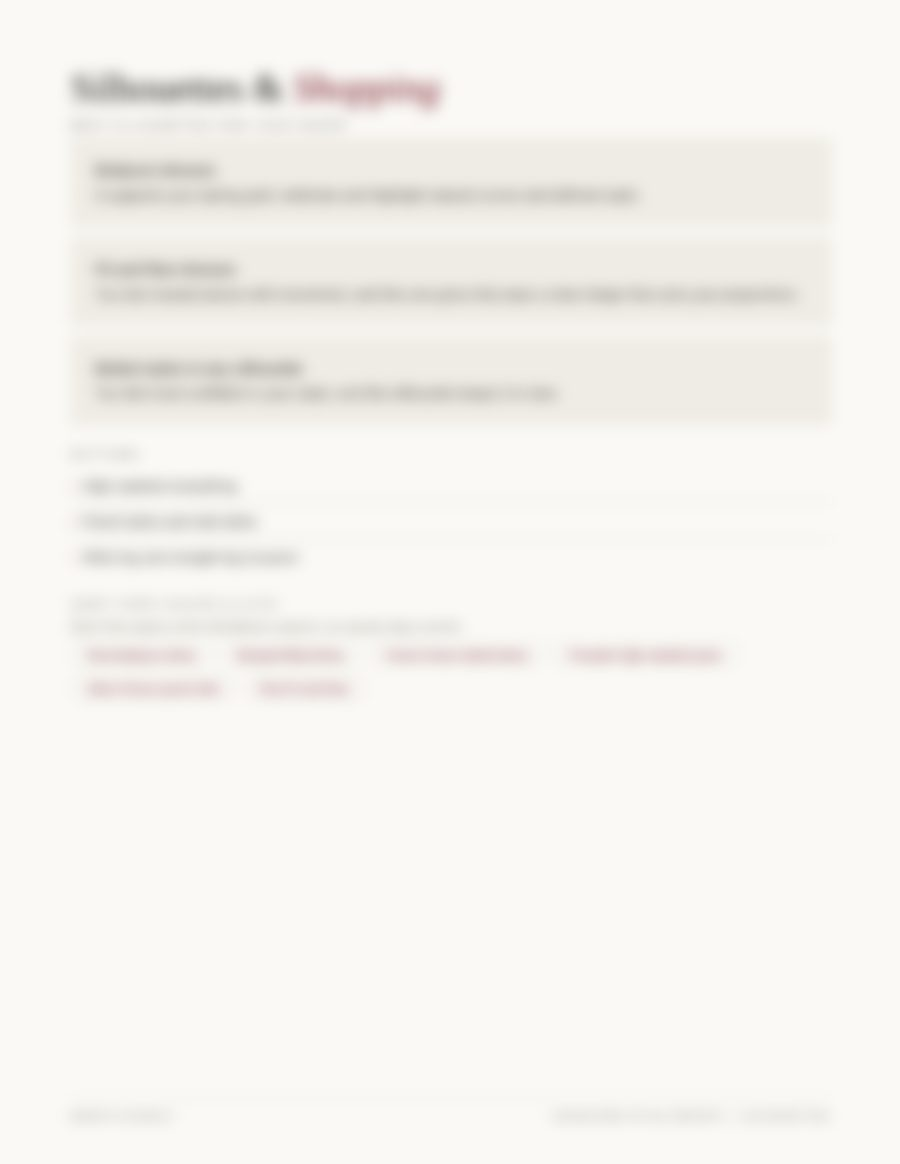
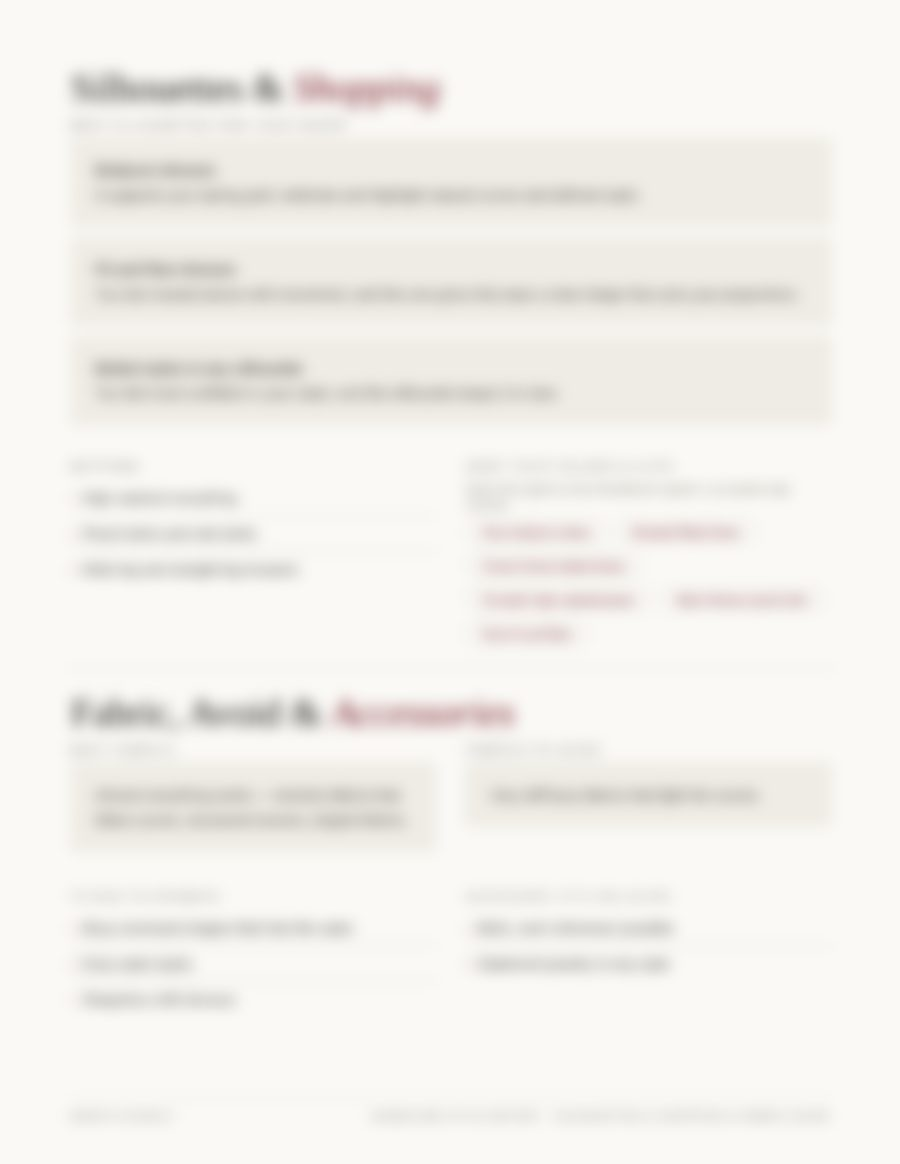
Signature report: pack sections onto 6 tight pages (measured, in order); refresh sneak peek images
Claude-Session: https://claude.ai/code/session_01FUdN8BrrqRcBgv91ujUewX

diff --git a/analysis-results.html b/analysis-results.html
@@ -46,6 +46,7 @@ body{background:var(--surface);color:var(--ink);font-family:var(--font-body);pad
 .pdf-h1 em{color:#7A1321;font-style:italic;}
 .pdf-section-label{font-size:0.62rem;letter-spacing:0.2em;text-transform:uppercase;color:#6B6862;font-weight:500;margin:1.3rem 0 0.5rem;}
 .pdf-box{background:#EFECE6;border:1px solid #DCD8D0;border-radius:2px;padding:1rem 1.3rem;margin-bottom:0.9rem;font-size:0.82rem;line-height:1.7;color:#3F3C38;}
+.pdf-two{display:grid;grid-template-columns:1fr 1fr;gap:0 28px;}.pdf-blk-n{margin-top:20px;padding-top:20px;border-top:1px solid #DCD8D0;}.pdf-pal-head{display:flex;justify-content:space-between;align-items:baseline;margin-bottom:0.9rem;}.pdf-pal-tag{font-size:0.66rem;letter-spacing:0.16em;text-transform:uppercase;color:#7A1321;font-weight:500;}
 .pdf-list{list-style:none;padding:0;margin:0;}
 .pdf-list li{padding:0.35rem 0;font-size:0.82rem;line-height:1.55;color:#3F3C38;border-bottom:1px solid #DCD8D0;}
 .pdf-list li:last-child{border-bottom:none;}
@@ -187,28 +188,57 @@ function nordstromChips(r){
   const sig=r.signature.slice(0,5);
   return '<div class="pdf-chips">'+kws.map((k,i)=>{const q=sig[i%sig.length].n+' '+k;return '<a class="pdf-chip" data-href="https://www.nordstrom.com/sr?keyword='+encodeURIComponent(q)+'" href="https://www.nordstrom.com/sr?keyword='+encodeURIComponent(q)+'" target="_blank" rel="noopener">'+esc(q)+'</a>';}).join('')+'</div>';
 }
+/* ---- Tight layout: sections are measured and packed onto as few pages as fit, so no page is left half empty ---- */
+const PAGE_CAP=915, BLK_GAP=41; /* content height that fits above the footer; px added between stacked sections */
+function makeBlocks(r){
+  const sig=r.signature.slice(0,5),neu=r.neutrals.slice(0,3);
+  const season=String(r.seasonLabel||'');
+  const b={height:r.height,intensity:r.intensity};
+  const img=CROQ_CACHE[croqKey(r.bodyShapeKey,b)]||'';const CL=croqLabelPos(b);
+  const L=[];
+  if(r.personaAnswered&&r.persona){const ps=r.persona;L.push({key:'persona',label:'Style Persona',html:'<p class="pdf-section-label" style="margin-top:0;">Your Style Persona</p><div class="pdf-persona-name">'+esc(ps.name)+'</div><p class="pdf-persona-tag">'+esc(ps.tagline)+'</p><p class="pdf-section-label">Your 3-Piece Signature Formula</p><div class="pdf-formula">'+ps.formula.map((f,i)=>(i?'<span class="pdf-plus">+</span>':'')+'<div class="pdf-fbox"><span class="pdf-fnum">0'+(i+1)+'</span>'+esc(f)+'</div>').join('')+'</div><div class="pdf-rulebox"><p class="pdf-section-label" style="margin-top:0;">The Styling Rule You Can Break</p><p>'+esc(ps.rule)+'</p></div>'});}
+  L.push({key:'palette',label:'Color Palette',html:'<div class="pdf-pal-head"><h1 class="pdf-h1" style="margin:0;">Your <em>Palette</em></h1><span class="pdf-pal-tag">'+esc(season)+'</span></div><p class="pdf-section-label" style="margin-top:0;">Power Neutrals</p>'+arches(neu)+'<p class="pdf-section-label">Signature Colors</p>'+arches(sig)+'<p class="pdf-section-label">Metal Tone</p><div class="pdf-box">'+esc(r.metal)+'</div>'});
+  L.push({key:'colortype',label:'Color Analysis',html:'<div class="pdf-colorband"><p class="pdf-section-label">Color Type</p><h1>You\'re a <em>'+esc(season)+'</em></h1></div>'
+    +'<div class="pdf-box"><p class="pdf-section-label" style="margin-top:0;">Color Type Identified</p><h2 class="pdf-h1" style="font-size:1.25rem;">'+esc(season)+'</h2>'+esc(r.seasonDesc)+'</div>'
+    +'<p class="pdf-section-label">Why This Is You</p><div class="pdf-box">'+esc(r.narrative)+'</div>'});
+  L.push({key:'guidance',label:'Color Guidance',html:'<h1 class="pdf-h1" style="margin-top:0;">Accessories &amp; <em>Avoid</em></h1><p class="pdf-section-label" style="margin-top:0;">Accessory Color Guide</p><div class="pdf-box">'+esc(r.accessory)+'</div><div class="pdf-two"><div><p class="pdf-section-label">Colors to Avoid</p><div class="pdf-box">'+esc(r.colorAvoid)+'</div></div><div><p class="pdf-section-label">Step Back From</p><div class="pdf-box">'+esc(r.avoidText)+'</div></div></div>'});
+  L.push({key:'body',label:'Body Analysis',html:'<p class="pdf-section-label" style="margin-top:0;">Body Shape</p><div class="pdf-bodyrow"><div class="pdf-croq"><img src="'+img+'"/><span class="pdf-croq-lbl" style="top:'+CL.sh.toFixed(1)+'%">Shoulders</span><span class="pdf-croq-lbl" style="top:'+CL.waist.toFixed(1)+'%">Waist</span><span class="pdf-croq-lbl" style="top:'+CL.hip.toFixed(1)+'%">Hips</span></div>'
+    +'<div class="pdf-bodycol"><h1 class="pdf-h1" style="margin:0 0 0.7rem;">'+esc(shapeTitle(r))+'</h1><div class="pdf-box">'+esc(r.bodyShapeDesc)+'</div><p class="pdf-section-label">Why This Is You</p><div class="pdf-box">'+esc(r.bodyNarrative)+'</div><p class="pdf-section-label">Styling Goal</p><div class="pdf-box" style="font-style:italic;">'+esc(r.bodyGoal)+'</div></div></div>'
+    +'<p class="pdf-section-label">Tops &amp; Necklines</p>'+pdfList((r.bodyGuide.tops||[]).slice(0,4))});
+  L.push({key:'silh',label:'Silhouettes & Shopping',html:'<h1 class="pdf-h1" style="margin-top:0;">Silhouettes &amp; <em>Shopping</em></h1><p class="pdf-section-label" style="margin-top:0;">Best Silhouettes For Your Shape</p>'+(r.silhouettes||[]).map(s=>'<div class="pdf-box" style="margin-bottom:0.7rem;"><strong>'+esc(s.text)+'</strong><br>'+esc(s.reason)+'</div>').join('')
+    +'<div class="pdf-two"><div><p class="pdf-section-label">Bottoms</p>'+pdfList((r.bodyGuide.bots||[]).slice(0,4))+'</div><div><p class="pdf-section-label">Shop Your Colors &amp; Cuts</p><p style="font-size:0.74rem;color:#8A8378;margin:0 0 0.4rem;">Each link opens a live Nordstrom search, so results stay current.</p>'+nordstromChips(r)+'</div></div>'});
+  L.push({key:'fab',label:'Fabric Guide',html:'<h1 class="pdf-h1" style="margin-top:0;">Fabric, Avoid &amp; <em>Accessories</em></h1><div class="pdf-two"><div><p class="pdf-section-label" style="margin-top:0;">Best Fabrics</p><div class="pdf-box">'+esc(r.bodyGuide.fabGood)+'</div></div><div><p class="pdf-section-label" style="margin-top:0;">Fabrics To Avoid</p><div class="pdf-box">'+esc(r.bodyGuide.fabAvoid)+'</div></div></div>'
+    +'<div class="pdf-two"><div><p class="pdf-section-label">Things To Minimize</p>'+pdfList(r.bodyGuide.avd)+'</div><div><p class="pdf-section-label">Accessory Styling Guide</p>'+pdfList(r.bodyGuide.acc)+'</div></div>'});
+  return L;
+}
+let LAYOUT=null;
+async function layoutPages(r){
+  const blocks=makeBlocks(r);
+  const host=document.createElement('div');host.className='pdf-page';host.style.cssText='position:absolute;left:-10000px;top:0;height:auto;overflow:visible;';
+  host.innerHTML=blocks.map(b=>'<div class="pdf-blk">'+b.html+'</div>').join('');document.body.appendChild(host);
+  try{
+    if(document.fonts&&document.fonts.ready)await document.fonts.ready;
+    await Promise.all([...host.querySelectorAll('img')].map(i=>i.decode?i.decode().catch(()=>{}):Promise.resolve()));
+    const kids=[...host.children];blocks.forEach((b,i)=>{b.h=kids[i].offsetHeight;});
+  }finally{host.remove();}
+  /* in-order packing: keep the reading order, start a new page only when the next section no longer fits */
+  const pages=[];let cur=[],used=0;
+  blocks.forEach(b=>{const need=cur.length?b.h+BLK_GAP:b.h;if(cur.length&&used+need>PAGE_CAP){pages.push(cur);cur=[b];used=b.h;}else{cur.push(b);used+=need;}});
+  if(cur.length)pages.push(cur);
+  window.__BLOCK_H=blocks.map(b=>b.key+':'+b.h).join(' ');
+  LAYOUT=pages.map(pg=>pg.map(b=>b.key));
+}
 function buildPages(r){
   const label='Signature Style Report';
   const today=new Date();const date=today.toLocaleDateString('en-US',{year:'numeric',month:'long',day:'numeric'});
   const until=new Date(today.getTime()+45*86400000).toLocaleDateString('en-US',{year:'numeric',month:'long',day:'numeric'});
-  const b={height:r.height,intensity:r.intensity};
-  const img=CROQ_CACHE[croqKey(r.bodyShapeKey,b)]||'';const CL=croqLabelPos(b);
-  const sig=r.signature.slice(0,5),neu=r.neutrals.slice(0,3);
-  const season=String(r.seasonLabel||'');
+  const blocks=makeBlocks(r),byKey={};blocks.forEach(b=>{byKey[b.key]=b;});
   const pages=[];
   pages.push(pdfPage('pdf-cover','<div class="pdf-logo">HerStyleVault</div><div class="pdf-pkg-pill">Signature Style Report</div><div class="pdf-client-name">'+esc(r.clientName)+'</div><div class="pdf-date">Prepared '+esc(date)+'</div>'));
-  if(r.personaAnswered&&r.persona){const ps=r.persona;pages.push(pdfPage('','<p class="pdf-section-label" style="margin-top:0;">Your Style Persona</p><div class="pdf-persona-name">'+esc(ps.name)+'</div><p class="pdf-persona-tag">'+esc(ps.tagline)+'</p><p class="pdf-section-label">Your 3-Piece Signature Formula</p><div class="pdf-formula">'+ps.formula.map((f,i)=>(i?'<span class="pdf-plus">+</span>':'')+'<div class="pdf-fbox"><span class="pdf-fnum">0'+(i+1)+'</span>'+esc(f)+'</div>').join('')+'</div><div class="pdf-rulebox"><p class="pdf-section-label" style="margin-top:0;">The Styling Rule You Can Break</p><p>'+esc(ps.rule)+'</p></div>'+pdfFoot(label+' — Style Persona')));}
-  pages.push(pdfPage('','<div class="pdf-colorband"><p class="pdf-section-label">Color Type</p><h1>You\'re a <em>'+esc(season)+'</em></h1></div>'
-    +'<div class="pdf-box"><p class="pdf-section-label" style="margin-top:0;">Color Type Identified</p><h2 class="pdf-h1" style="font-size:1.25rem;">'+esc(season)+'</h2>'+esc(r.seasonDesc)+'</div>'
-    +'<p class="pdf-section-label">Why This Is You</p><div class="pdf-box">'+esc(r.narrative)+'</div>'+pdfFoot(label+' — Color Analysis')));
-  pages.push(pdfPage('','<h1 class="pdf-h1">Your <em>Palette</em></h1><p class="pdf-section-label" style="margin-top:0;">Power Neutrals</p>'+arches(neu)+'<p class="pdf-section-label">Signature Colors</p>'+arches(sig)+'<p class="pdf-section-label">Metal Tone</p><div class="pdf-box">'+esc(r.metal)+'</div>'+pdfFoot(label+' — Color Palette')));
-  pages.push(pdfPage('','<h1 class="pdf-h1">Accessories &amp; <em>Avoid</em></h1><p class="pdf-section-label" style="margin-top:0;">Accessory Color Guide</p><div class="pdf-box">'+esc(r.accessory)+'</div><p class="pdf-section-label">Colors to Avoid</p><div class="pdf-box">'+esc(r.colorAvoid)+'</div><p class="pdf-section-label">Step Back From</p><div class="pdf-box">'+esc(r.avoidText)+'</div>'+pdfFoot(label+' — Color Guidance')));
-  pages.push(pdfPage('','<p class="pdf-section-label">Body Shape</p><div class="pdf-bodyrow"><div class="pdf-croq"><img src="'+img+'"/><span class="pdf-croq-lbl" style="top:'+CL.sh.toFixed(1)+'%">Shoulders</span><span class="pdf-croq-lbl" style="top:'+CL.waist.toFixed(1)+'%">Waist</span><span class="pdf-croq-lbl" style="top:'+CL.hip.toFixed(1)+'%">Hips</span></div>'
-    +'<div class="pdf-bodycol"><h1 class="pdf-h1" style="margin:0 0 0.7rem;">'+esc(shapeTitle(r))+'</h1><div class="pdf-box">'+esc(r.bodyShapeDesc)+'</div><p class="pdf-section-label">Why This Is You</p><div class="pdf-box">'+esc(r.bodyNarrative)+'</div><p class="pdf-section-label">Styling Goal</p><div class="pdf-box" style="font-style:italic;">'+esc(r.bodyGoal)+'</div></div></div>'
-    +'<p class="pdf-section-label">Tops &amp; Necklines</p>'+pdfList((r.bodyGuide.tops||[]).slice(0,4))+pdfFoot(label+' — Body Analysis')));
-  pages.push(pdfPage('','<h1 class="pdf-h1">Silhouettes &amp; <em>Shopping</em></h1><p class="pdf-section-label" style="margin-top:0;">Best Silhouettes For Your Shape</p>'+(r.silhouettes||[]).map(s=>'<div class="pdf-box" style="margin-bottom:0.7rem;"><strong>'+esc(s.text)+'</strong><br>'+esc(s.reason)+'</div>').join('')
-    +'<p class="pdf-section-label">Bottoms</p>'+pdfList((r.bodyGuide.bots||[]).slice(0,4))+'<p class="pdf-section-label">Shop Your Colors &amp; Cuts</p><p style="font-size:0.78rem;color:#8A8378;margin:0 0 0.4rem;">Each link opens a live Nordstrom search, so results stay current.</p>'+nordstromChips(r)+pdfFoot(label+' — Silhouettes')));
-  pages.push(pdfPage('','<h1 class="pdf-h1">Fabric, Avoid &amp; <em>Accessories</em></h1><p class="pdf-section-label" style="margin-top:0;">Best Fabrics</p><div class="pdf-box">'+esc(r.bodyGuide.fabGood)+'</div><p class="pdf-section-label">Fabrics To Avoid</p><div class="pdf-box">'+esc(r.bodyGuide.fabAvoid)+'</div><p class="pdf-section-label">Things To Minimize</p>'+pdfList(r.bodyGuide.avd)+'<p class="pdf-section-label">Accessory Styling Guide</p>'+pdfList(r.bodyGuide.acc)+pdfFoot(label+' — Fabric Guide')));
+  (LAYOUT||blocks.map(b=>[b.key])).forEach(keys=>{
+    const bs=keys.map(k=>byKey[k]);
+    pages.push(pdfPage('',bs.map((b,i)=>'<div class="'+(i?'pdf-blk-n':'')+'">'+b.html+'</div>').join('')+pdfFoot(label+' · '+bs.map(b=>b.label).join(' & '))));
+  });
   pages.push(pdfPage('pdf-closing','<div class="pdf-logo">HerStyleVault</div><p style="font-family:\'Cormorant Garamond\',serif;font-style:italic;font-size:1.35rem;color:var(--accent);max-width:560px;margin:1.2rem 0 0.4rem;line-height:1.6;">This is your starting point. Take it shopping, take it to your closet, and come back when you want it turned into real outfits.</p>'
     +'<div class="pdf-credit"><strong>Your $40 credit</strong>Your Signature Style Report fee is credited toward any 1:1 package when you book within 45 days (by '+esc(until)+'). One use, on your first package. Mention your report on your free consultation and it comes off your deposit invoice. It cannot be combined with other offers.</div>'
     +'<p style="font-size:0.9rem;color:#3F3C38;">Book your free consultation at<br><strong data-href="https://herstylevault.com/book.html">herstylevault.com/book.html</strong></p><p style="font-size:0.9rem;color:#3F3C38;margin-top:1rem;">With love,<br><strong>Adebisi</strong><br>HerStyleVault</p>'));
@@ -220,7 +250,7 @@ function fitPreviews(){
   document.querySelectorAll('.prev-slot').forEach(el=>{el.style.width=(816*s)+'px';el.style.height=(1056*s)+'px';el.firstElementChild.style.transform='scale('+s+')';});
 }
 async function renderReport(r){
-  REPORT=r;await prepCroq(r);
+  REPORT=r;await prepCroq(r);await layoutPages(r);
   const pages=buildPages(r);
   document.getElementById('app').innerHTML='<p class="hint">Your report is ready. Scroll through it here, or download the PDF to keep.</p>'+pages.map(p=>'<div class="prev-slot">'+p+'</div>').join('')
     +'<div class="cta"><h3>Ready to turn this into outfits?</h3><p>A free consultation turns this report into a real wardrobe. Your $40 is credited toward any 1:1 package if you book within 45 days.</p><a href="'+(r.isReturning?'book.html':'https://tally.so/r/yPeEjp')+'">'+(r.isReturning?'Book Your Session':'Fill Out Your Intake Form')+'</a></div>';

diff --git a/digitals.js b/digitals.js
@@ -27,10 +27,10 @@ var DIGITALS = [
     coverSub: 'Color · Shape · Style',
     price: '$40', priceNote: 'one-time',
     previews: [
-      {src:'images/digitals/report-persona.jpg', alt:'Sample report page: your style persona and 3-piece formula'},
-      {src:'images/digitals/report-palette.jpg', alt:'Sample report page: your color palette with hex codes'},
+      {src:'images/digitals/report-persona.jpg', alt:'Sample report page: your style persona, 3-piece formula and color palette'},
+      {src:'images/digitals/report-color.jpg', alt:'Sample report page: your color type and accessory color guide'},
       {src:'images/digitals/report-body.jpg', alt:'Sample report page: body shape and styling goal'},
-      {src:'images/digitals/report-locked.jpg', alt:'Locked report page: silhouettes and shopping links', locked:true}
+      {src:'images/digitals/report-locked.jpg', alt:'Locked report page: silhouettes, shopping links and fabric guide', locked:true}
     ], /* sneak peek pages (portrait, sample client). Slide 1 is always the cover. */
     short: "22 quick questions and an optional photo give you a custom style blueprint: your color season, body shape, and what to wear.",
     headline: 'Find your <em>colors</em> and your <em>shape</em> in about 3 minutes',
